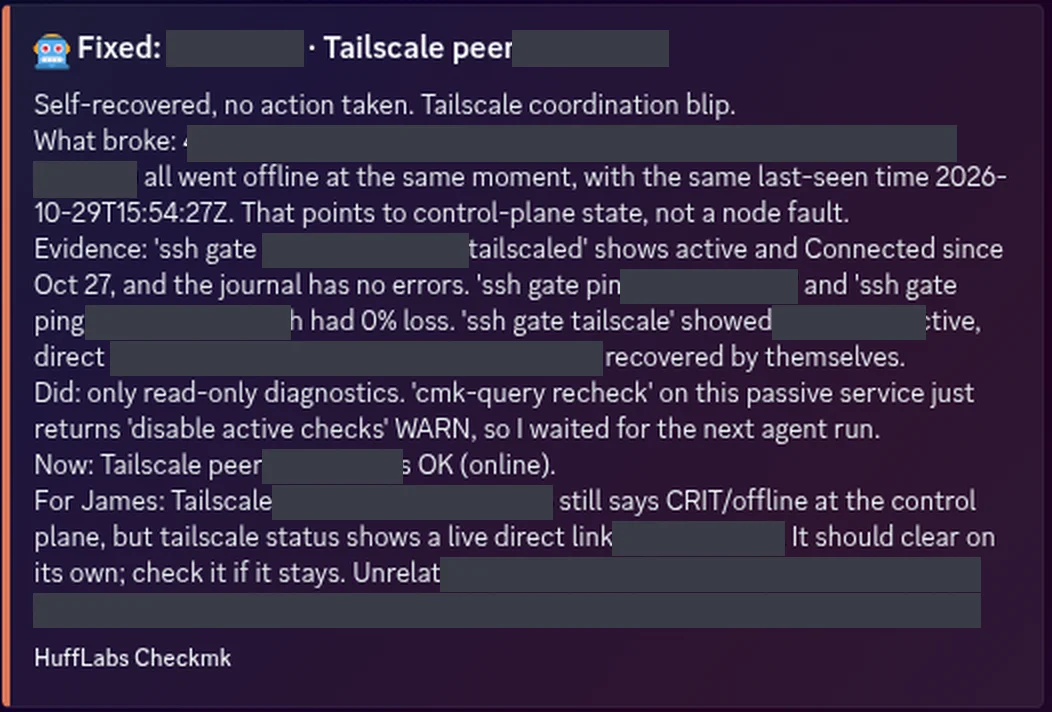
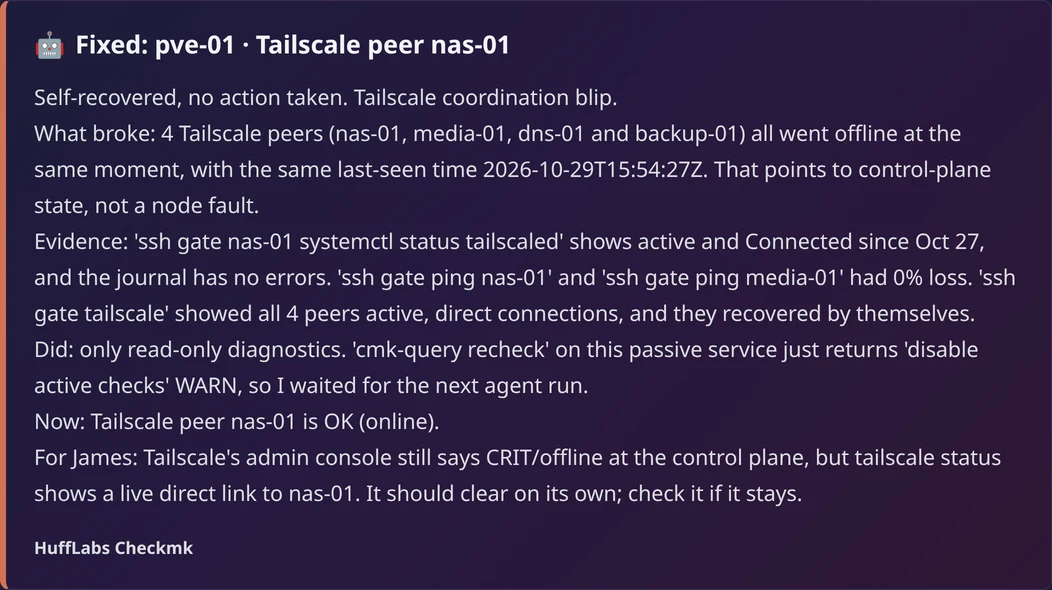
Screenshots with example names instead of redaction boxes

diff --git a/index.html b/index.html
@@ -163,8 +163,8 @@
           <p>Self-healing monitoring. Known problems get a safe, allowlisted fix, and anything else goes to an AI agent that can only act through a security gatekeeper I built.</p>
           <div class="shots">
             <figure>
-              <a href="assets/projects/oncall-triage.webp"><img src="assets/projects/oncall-triage.webp" width="1052" height="712" loading="lazy" alt="A Discord report from the on-call agent: a Tailscale alert that recovered by itself, with the evidence it checked and a note for me. Host names are blacked out."></a>
-              <figcaption>A triage report: what broke, the evidence, what it did.</figcaption>
+              <a href="assets/projects/oncall-triage.webp"><img src="assets/projects/oncall-triage.webp" width="1052" height="590" loading="lazy" alt="A Discord report from the on-call agent: a Tailscale alert that recovered by itself, with the evidence it checked and a note for me. Host names are examples."></a>
+              <figcaption>A triage report: what broke, the evidence, what it did. Host names are examples.</figcaption>
             </figure>
           </div>
         </article>
@@ -174,8 +174,8 @@
           <p>A security and availability monitor that alerts only when something changes, and takes commands from Discord.</p>
           <div class="shots stack">
             <figure>
-              <a href="assets/projects/watchdog-alert.webp"><img src="assets/projects/watchdog-alert.webp" width="653" height="206" loading="lazy" alt="Discord alerts from the watchdog: a device went offline, then a host became reachable again. Host names are blacked out."></a>
-              <figcaption>Alerts only when something changes.</figcaption>
+              <a href="assets/projects/watchdog-alert.webp"><img src="assets/projects/watchdog-alert.webp" width="653" height="216" loading="lazy" alt="Discord alerts from the watchdog: a device went offline, then a host became reachable again. Host names and addresses are examples."></a>
+              <figcaption>Alerts only when something changes. Names and addresses are examples.</figcaption>
             </figure>
             <figure>
               <a href="assets/projects/watchdog-ping.webp"><img src="assets/projects/watchdog-ping.webp" width="1100" height="159" loading="lazy" alt="The watchdog answering a ping command in Discord with its uptime, poll count, last error and service status."></a>
